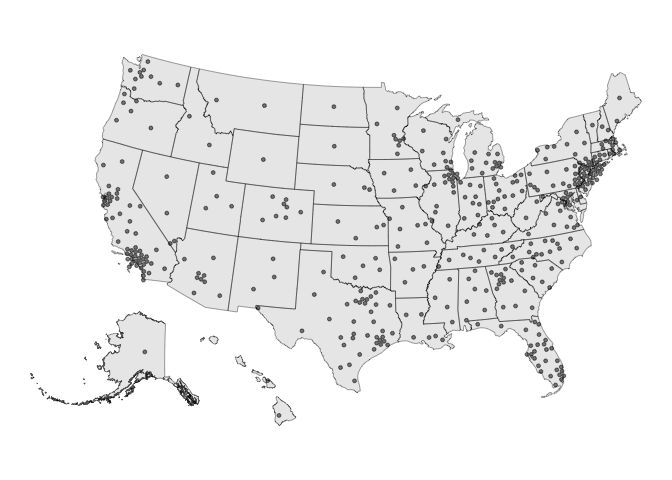
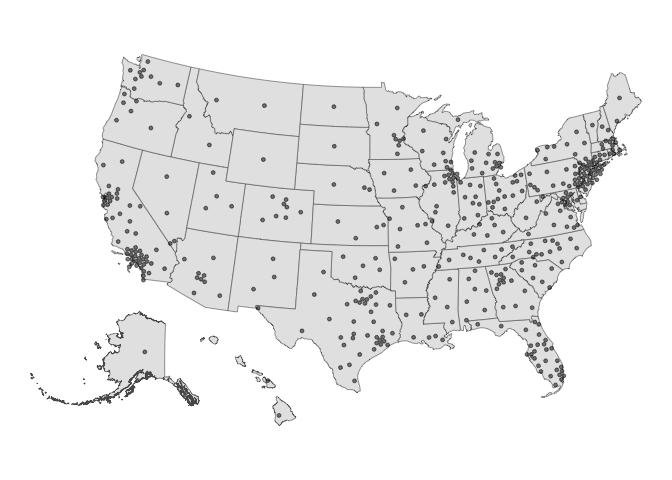
documentation up

Changed region(s): [[0.75, 0.5, 0.7812, 0.5312], [0.6562, 0.5, 0.6875, 0.5312]]

diff --git a/README.md b/README.md
@@ -75,29 +75,32 @@ shp_dot_2023
 #> 10  118 AR-02  POINT (328419.7 1351219)
 ```
 
-We are currently working on providing **hexmaps** (i.e., maps that
-present CDs as combinations of hexagons) for all years. A 2016-era
-version of these versions are provided in
-<https://github.com/kuriwaki/donnermap> and the Downballot links
-recorded there.
+We also provide **hexmaps** (i.e., maps that present CDs as combinations
+of hexagons) for all years. These are sourced from the Downballot’s hex
+map shapefiles (<https://the-db.co/maps>).
 
 ``` r
-library(donnermap) # remotes::install_github("kuriwaki/donnermap")
-
-ggplot(cd_shp) +
+load_shp_hex(2023) |>
+  ggplot() +
   geom_sf() +
   theme_void() +
-  labs(caption = "Map Source: http://dkel.ec/map")
+  labs(caption = "Map Source: https://the-db.co/maps")
 ```
 
 <img src="man/figures/README-unnamed-chunk-4-1.png" width="100%" />
+
+Note: An earlier version of these hex maps was provided in the
+[`donnermap`](https://github.com/kuriwaki/donnermap) package. Those
+shapefiles used unprojected coordinates that do not match the coordinate
+system of the other hex maps here. The hex maps in `fourthirtyfive` use
+the projected Web Mercator versions (`wm` suffix) from the Downballot.
 
 We do not store actual CD shapefiles, but we provide a function to draw
 these from either the Census or Jeff Lewis’s historical shapefiles.
 
 ``` r
 cd_shps <- load_cd_shps(c = 118)
-#>   |                                                                              |                                                                      |   0%  |                                                                              |==                                                                    |   3%  |                                                                              |====                                                                  |   6%  |                                                                              |=====                                                                 |   7%  |                                                                              |========                                                              |  11%  |                                                                              |==========                                                            |  14%  |                                                                              |============                                                          |  17%  |                                                                              |===============                                                       |  22%  |                                                                              |=================                                                     |  24%  |                                                                              |===================                                                   |  27%  |                                                                              |====================                                                  |  29%  |                                                                              |=======================                                               |  33%  |                                                                              |=========================                                             |  36%  |                                                                              |============================                                          |  41%  |                                                                              |=============================                                         |  42%  |                                                                              |===============================                                       |  44%  |                                                                              |==================================                                    |  48%  |                                                                              |====================================                                  |  52%  |                                                                              |======================================                                |  54%  |                                                                              |==========================================                            |  59%  |                                                                              |============================================                          |  63%  |                                                                              |===============================================                       |  68%  |                                                                              |==================================================                    |  72%  |                                                                              |=====================================================                 |  76%  |                                                                              |========================================================              |  80%  |                                                                              |===========================================================           |  84%  |                                                                              |==============================================================        |  88%  |                                                                              |================================================================      |  92%  |                                                                              |===================================================================   |  96%  |                                                                              |======================================================================| 100%
+#>   |                                                                              |                                                                      |   0%  |                                                                              |==                                                                    |   2%  |                                                                              |=====                                                                 |   6%  |                                                                              |======                                                                |   9%  |                                                                              |=======                                                               |  10%  |                                                                              |==========                                                            |  14%  |                                                                              |===========                                                           |  16%  |                                                                              |============                                                          |  17%  |                                                                              |==============                                                        |  19%  |                                                                              |=================                                                     |  24%  |                                                                              |=================                                                     |  25%  |                                                                              |====================                                                  |  29%  |                                                                              |=====================                                                 |  30%  |                                                                              |======================                                                |  32%  |                                                                              |=========================                                             |  35%  |                                                                              |===========================                                           |  38%  |                                                                              |============================                                          |  41%  |                                                                              |===============================                                       |  45%  |                                                                              |=================================                                     |  47%  |                                                                              |==================================                                    |  48%  |                                                                              |====================================                                  |  52%  |                                                                              |==========================================                            |  59%  |                                                                              |============================================                          |  63%  |                                                                              |===============================================                       |  68%  |                                                                              |==================================================                    |  72%  |                                                                              |=====================================================                 |  76%  |                                                                              |========================================================              |  80%  |                                                                              |===========================================================           |  84%  |                                                                              |==============================================================        |  88%  |                                                                              |================================================================      |  92%  |                                                                              |===================================================================   |  96%  |                                                                              |======================================================================| 100%
 #> old-style crs object detected; please recreate object with a recent sf::st_crs()
 #> Warning in CPL_crs_from_input(x): GDAL Message 1: CRS EPSG:2163 is deprecated.
 #> Its non-deprecated replacement EPSG:9311 will be used instead. To use the
